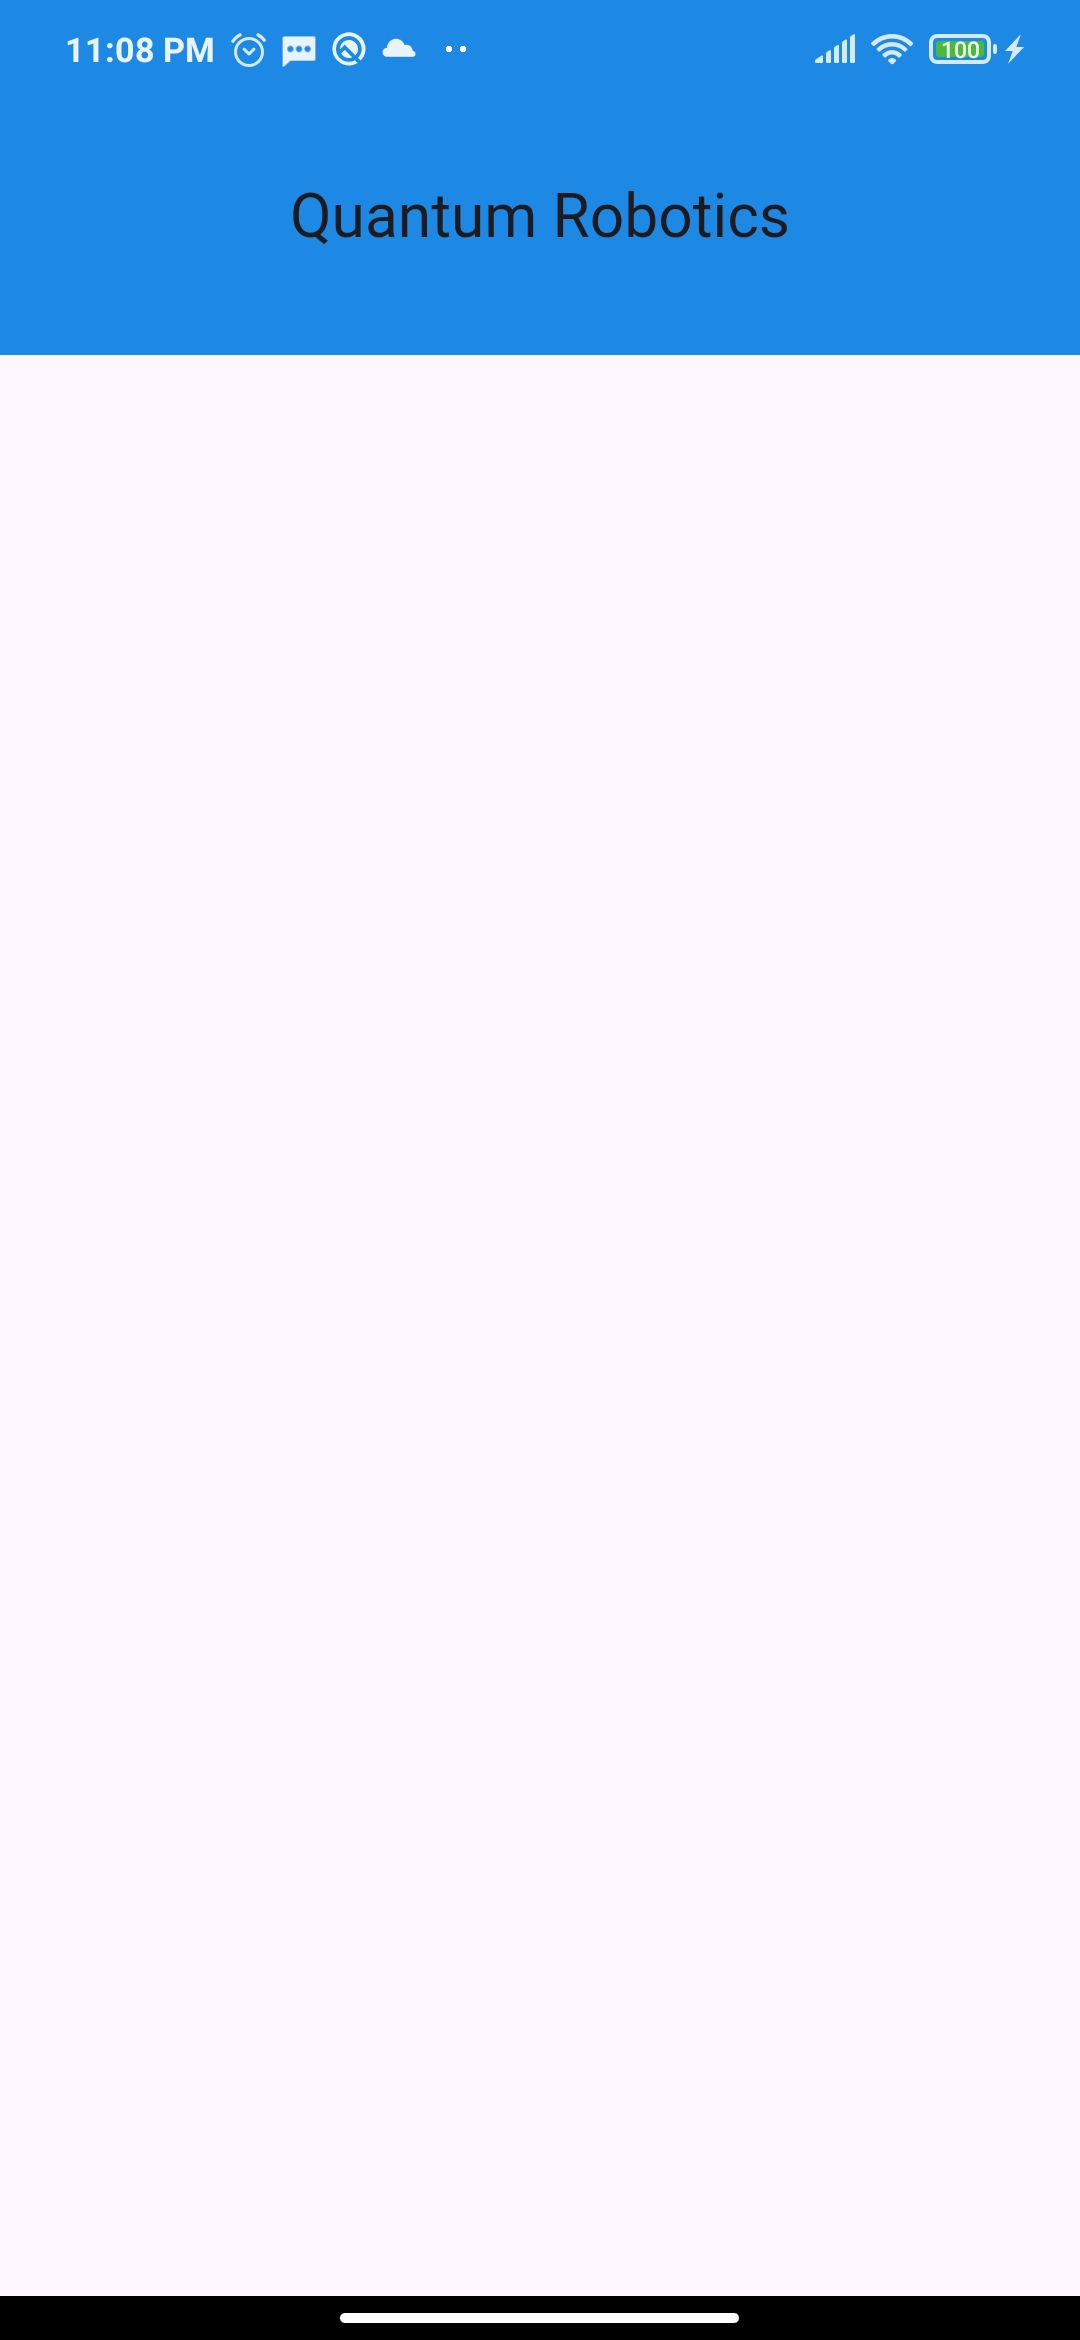
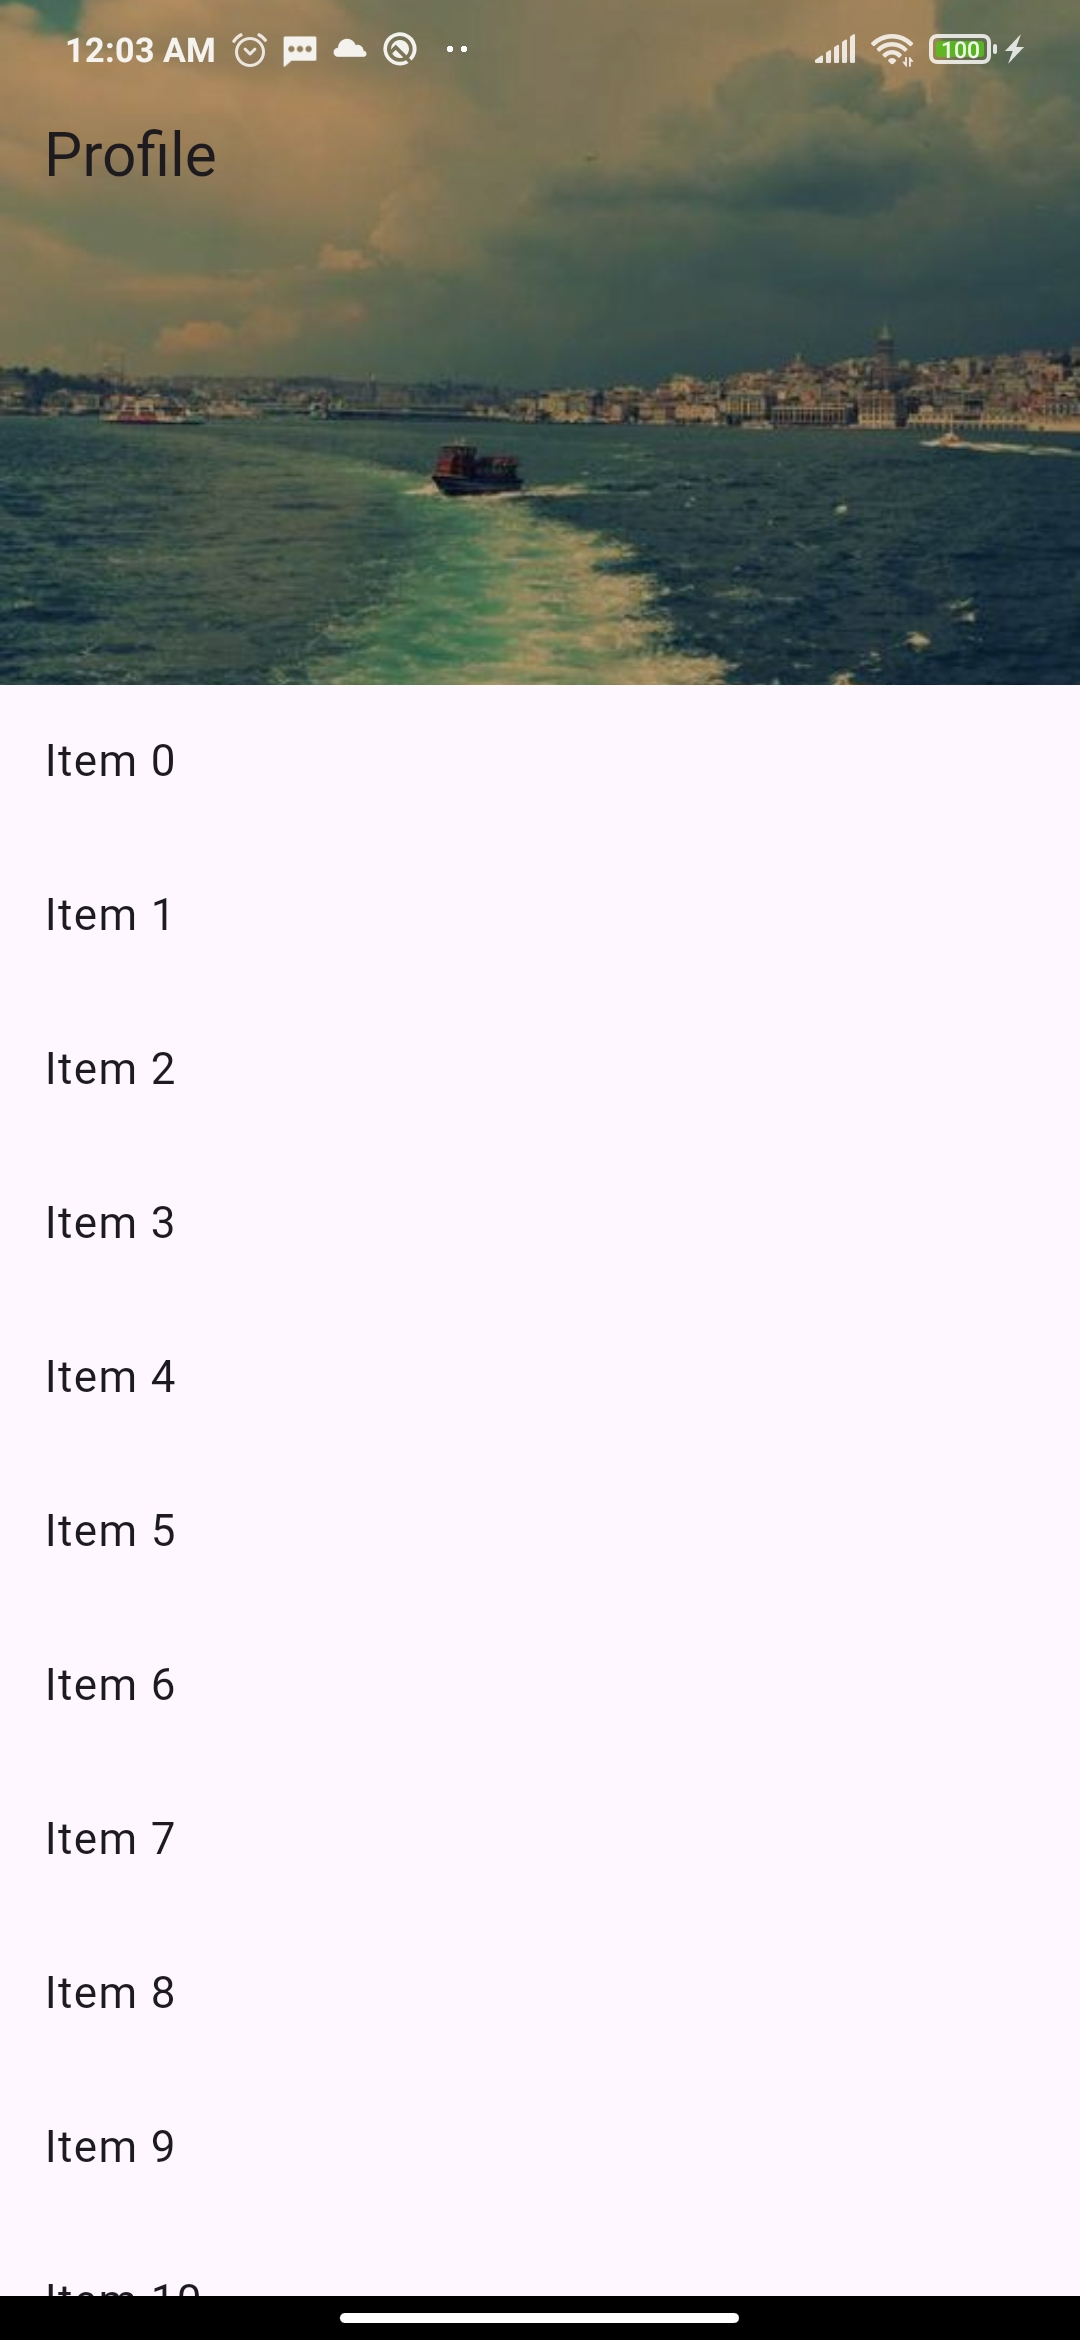
added image

diff --git a/lib/main.dart b/lib/main.dart
@@ -12,43 +12,50 @@ class MyApp extends StatelessWidget {
   }
 }
 
+
+
 class HomePage extends StatelessWidget {
   @override
   Widget build(BuildContext context) {
     return Scaffold(
-      appBar: AppBar(
-        toolbarHeight: 100,
-        // 🔥 Increased height
-        backgroundColor: Colors.blue,
+      body: CustomScrollView(
+        slivers: [
+          SliverAppBar(
+            expandedHeight: 220,
+            pinned: true,
+            floating: true,
+            snap: true,
+            backgroundColor: Colors.blue,
 
-        leading: Padding(
-          padding: EdgeInsets.only(left: 12),
-          child: CircleAvatar(
-            backgroundImage: NetworkImage("https://i.pravatar.cc/150?img=3"),
-          ),
-        ),
-        leadingWidth: 60,
+            title: Text("Profile"),
 
-        title: Column(
-          mainAxisAlignment: MainAxisAlignment.center,
-          crossAxisAlignment: CrossAxisAlignment.start,
-          children: [
-            Text("Welcome Back 👋", style: TextStyle(fontSize: 14)),
-            SizedBox(height: 4),
-            Text(
-              "Rajib Hasan",
-              style: TextStyle(fontSize: 18, fontWeight: FontWeight.bold),
+            flexibleSpace: FlexibleSpaceBar(
+              collapseMode: CollapseMode.parallax,
+              background: Stack(
+                fit: StackFit.expand,
+                children: [
+                  Image.network(
+                    "https://picsum.photos/500",
+                    fit: BoxFit.cover,
+                  ),
+                  Container(
+                    color: Colors.black.withOpacity(0.3),
+                  ),
+                ],
+              ),
             ),
-          ],
-        ),
+          ),
 
-        actions: [
-          IconButton(icon: Icon(Icons.notifications), onPressed: () {}),
-          SizedBox(width: 10),
+          SliverList(
+            delegate: SliverChildBuilderDelegate(
+                  (context, index) => ListTile(
+                title: Text("Item $index"),
+              ),
+              childCount: 30,
+            ),
+          ),
         ],
       ),
-
-      body: Center(child: Text("Home Screen")),
     );
   }
 }
